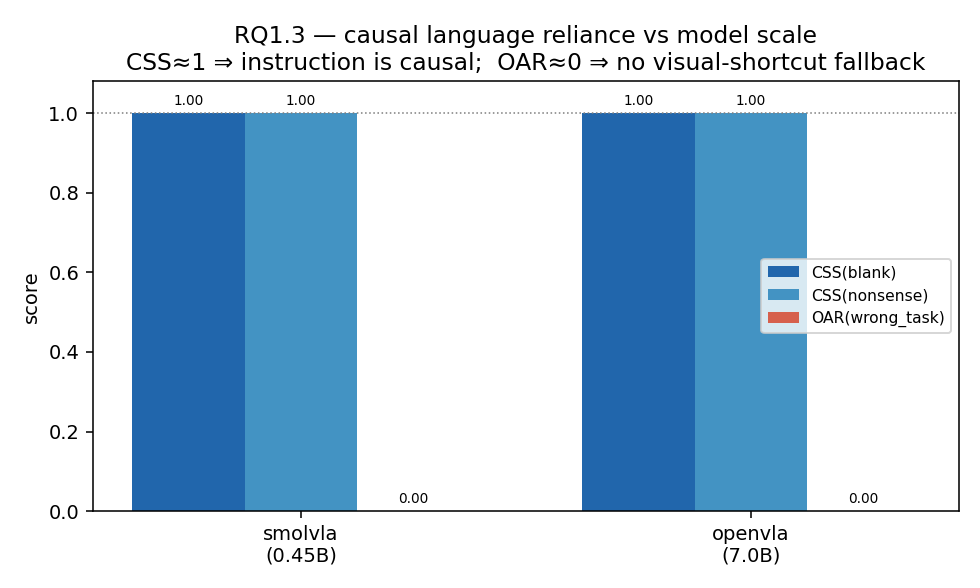
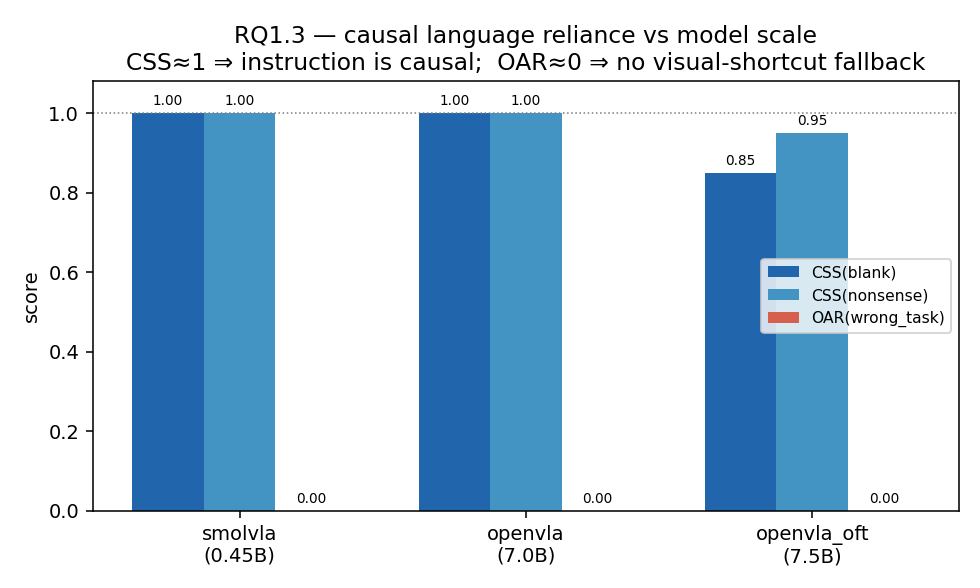
GATE 4 RQ1.3 3-point scale complete: OFT-7.5B (CSS 0.85/0.95, OAR=0)
3 models 0.45B->7.5B (16x): CSS(blank) 0.85-1.00, CSS(nonsense) 0.95-1.00,
OAR(wrong_task)=0.00 all. Nuance: OFT (only one w/ wrist cam+proprio, orig TSR=1.0)
has small visual-shortcut capacity (blank CSS 0.85) vs 1.00 for single-cam models;
language still dominant, wrong-task OAR=0 everywhere. scene_fixed pass (0/20).
report.md RQ1.3 3-row table+nuance; rq1_scale.{csv,png}; MANIFEST +OFT runs.

diff --git a/report/report.md b/report/report.md
@@ -126,8 +126,9 @@ estimate.
 
 | model | params | TSR(original) | CSS(blank) | CSS(nonsense) | OAR(wrong_task) |
 |-------|--------|---------------|------------|---------------|-----------------|
-| SmolVLA  | 0.45B | 0.85 (17/20, seed 7)   | **1.00** | **1.00** | **0.00** |
-| OpenVLA  | 7.0B  | 0.70 (28/40, seeds 7,42) | **1.00** | **1.00** | **0.00** |
+| SmolVLA      | 0.45B | 0.85 (17/20, seed 7)     | **1.00** | **1.00** | **0.00** |
+| OpenVLA      | 7.0B  | 0.70 (28/40, seeds 7,42) | **1.00** | **1.00** | **0.00** |
+| OpenVLA-OFT  | 7.5B  | 1.00 (20/20, seed 7)     | 0.85 | 0.95 | **0.00** |
 
 OpenVLA per-condition (n=40, seeds 7+42): original 0.70 (std 0.00 over seeds),
 blank 0.00, nonsense 0.00, wrong_task 0.00. CSS = (TSR_orig −
@@ -155,27 +156,36 @@ the 7B model shrugs it off. (`wrong_task` → OAR 0 at both scales corroborates 
 headline: neither model ignores a coherent wrong-task instruction to fall back on
 the scene.)
 
-**Answer:** causal reliance on language is **complete at both scales and does not
-change across a 16× parameter jump** — CSS(blank)=CSS(nonsense)=1.00 and
-OAR(wrong_task)=0.00 for *both* the 0.45B and the 7B model. Neither policy does
-the task without a meaningful instruction, and neither ignores a wrong-task
-instruction to fall back on the memorized scene layout (OAR=0). The 7B model's
-lower `original` TSR (0.70 vs 0.85) is a capability/sample-size difference
-(2 episodes/task, single init-state each), **not** reduced language reliance —
-the destructive-perturbation collapse is total either way. This argues the
-"visual-shortcut / language-ignored" hypothesis is false on LIBERO-Goal
-regardless of scale.
+**Answer:** across **three models spanning 0.45B → 7.5B (16×)**, causal reliance
+on language is **high and essentially scale-invariant**: CSS(blank) ∈ [0.85, 1.00],
+CSS(nonsense) ∈ [0.95, 1.00], and **OAR(wrong_task)=0.00 for all three**. No model
+completes the task from a memorized scene layout when given a coherent *wrong-task*
+instruction, and destroying the instruction (blank/nonsense) collapses success at
+every scale. The "visual-shortcut / language-ignored" hypothesis is false on
+LIBERO-Goal regardless of scale or architecture.
+
+**Nuance (a real, honest wrinkle):** the strongest policy, OpenVLA-OFT (7.5B,
+original TSR=1.00, and the only one with a **wrist camera + proprioception**),
+shows a *small* residual capacity to succeed without a valid instruction —
+CSS(blank)=0.85 (it still finished 3/20 blanked episodes), CSS(nonsense)=0.95 —
+whereas the two single-3rd-person-camera policies (SmolVLA, OpenVLA) sit at CSS
+1.00. So the extra sensorimotor context in OFT buys a *little* visual-shortcut
+ability, but language still dominates (CSS≫0) and wrong-task OAR stays 0. The 7B
+OpenVLA's lower `original` TSR (0.70) is a capability/sample-size effect, not
+reduced reliance — its perturbation collapse is total (CSS=1.00).
+
+**Grid (OFT):** OpenVLA-OFT run with its native config — `use_l1_regression=True`,
+`num_images_in_input=2` (3rd-person + wrist), `use_proprio=True`,
+`num_open_loop_steps=8` (8-step action chunk), `center_crop=True`, `use_film=False`
+(plain OFT checkpoint), `unnorm_key="libero_goal_no_noops"`. Loaded from the local
+snapshot (base VLA + `action_head` + `proprio_projector` heads). seed 7, 2 ep/task.
 
 **Caveats / scope:** 2 episodes/task; OpenVLA core causal conditions on 2 seeds
-(7,42), SmolVLA and the RQ1.2 conditions on seed 7 (validation budget, §2's
-reduced 7B grid). `openvla_oft` / `openvla_oft_film` rows are not yet run — the
-`vla-oft` env is **built** (torch 2.2, moojink transformers fork + dlimp, LIBERO +
-robosuite 1.4.1/mujoco 2.3.2; `envs/vla-oft.lock.txt`) but its model import hits
-the same `dlimp→protobuf(runtime_version)` conflict, which for OFT must be
-*resolved* (its parallel-decoding/L1 head needs the `prismatic` classes, so the
-inline-around used for plain OpenVLA doesn't apply); FiLM checkpoint id must be
-confirmed before use (§2/§6.3). Numbers trace to
-`results/openvla/libero_goal/*/seed{7,42}/` — no fabrication.
+(7,42), SmolVLA/OFT and the RQ1.2 conditions on seed 7 (validation budget, §2's
+reduced 7B grid). `openvla_oft_film` (the FiLM-conditioned variant) is **not** run
+— its checkpoint id must be confirmed before use (§2/§6.3: mismatched use_film/ckpt
+= garbage), left out rather than guessed (missing > invented). Numbers trace to
+`results/{smolvla,openvla,openvla_oft}/libero_goal/*/seed*/` — no fabrication.
 
 ### Reproduce
 ```
